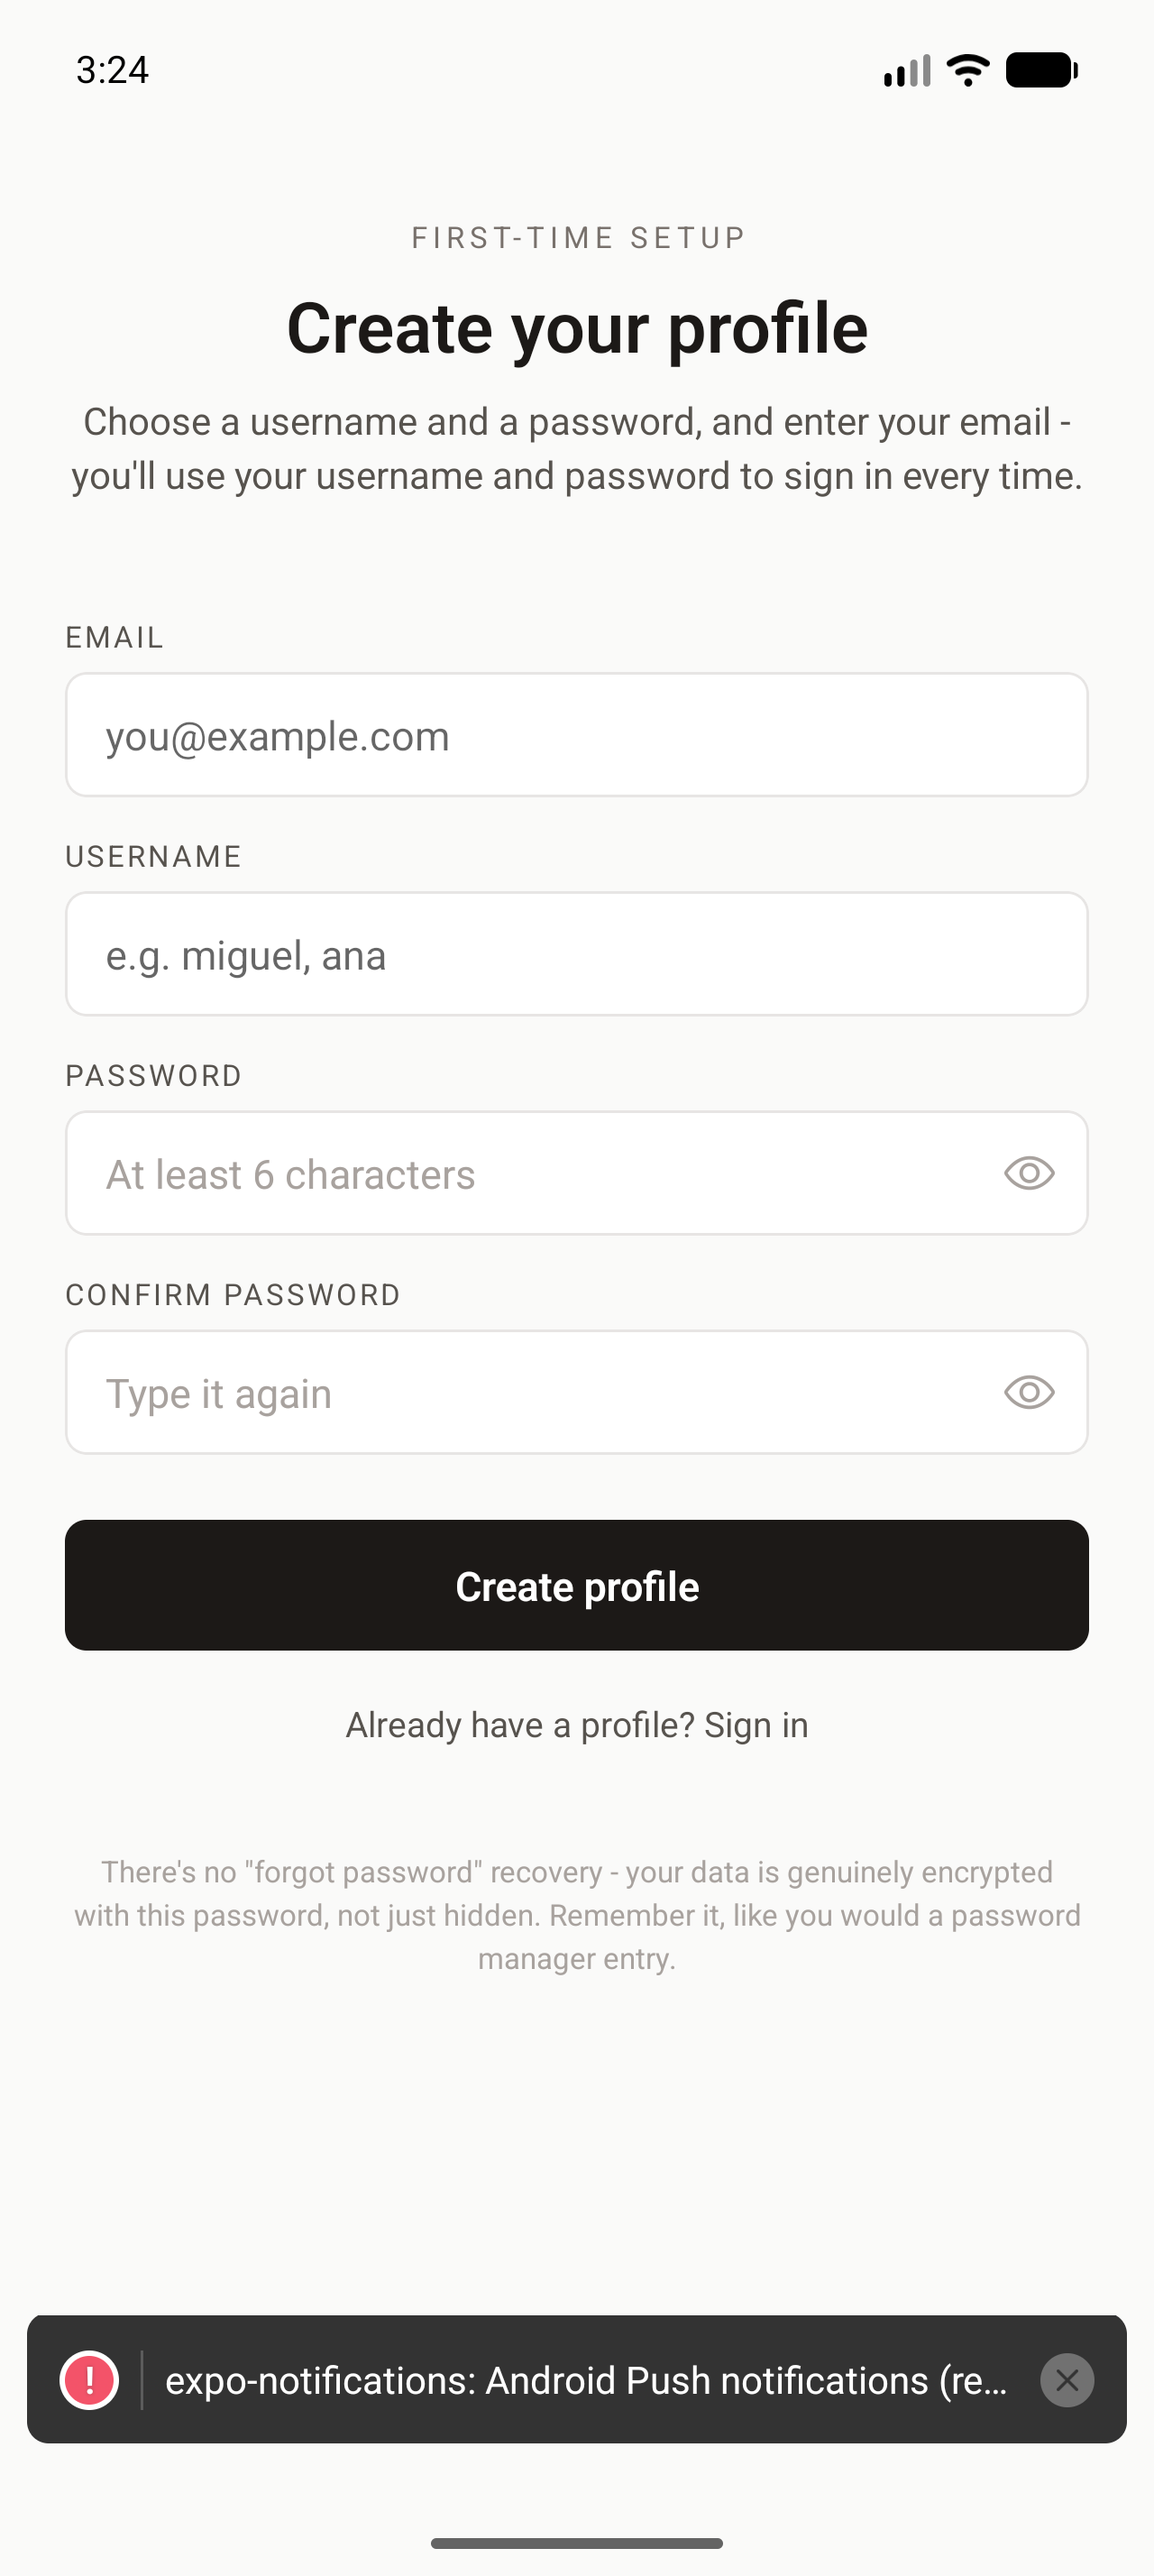
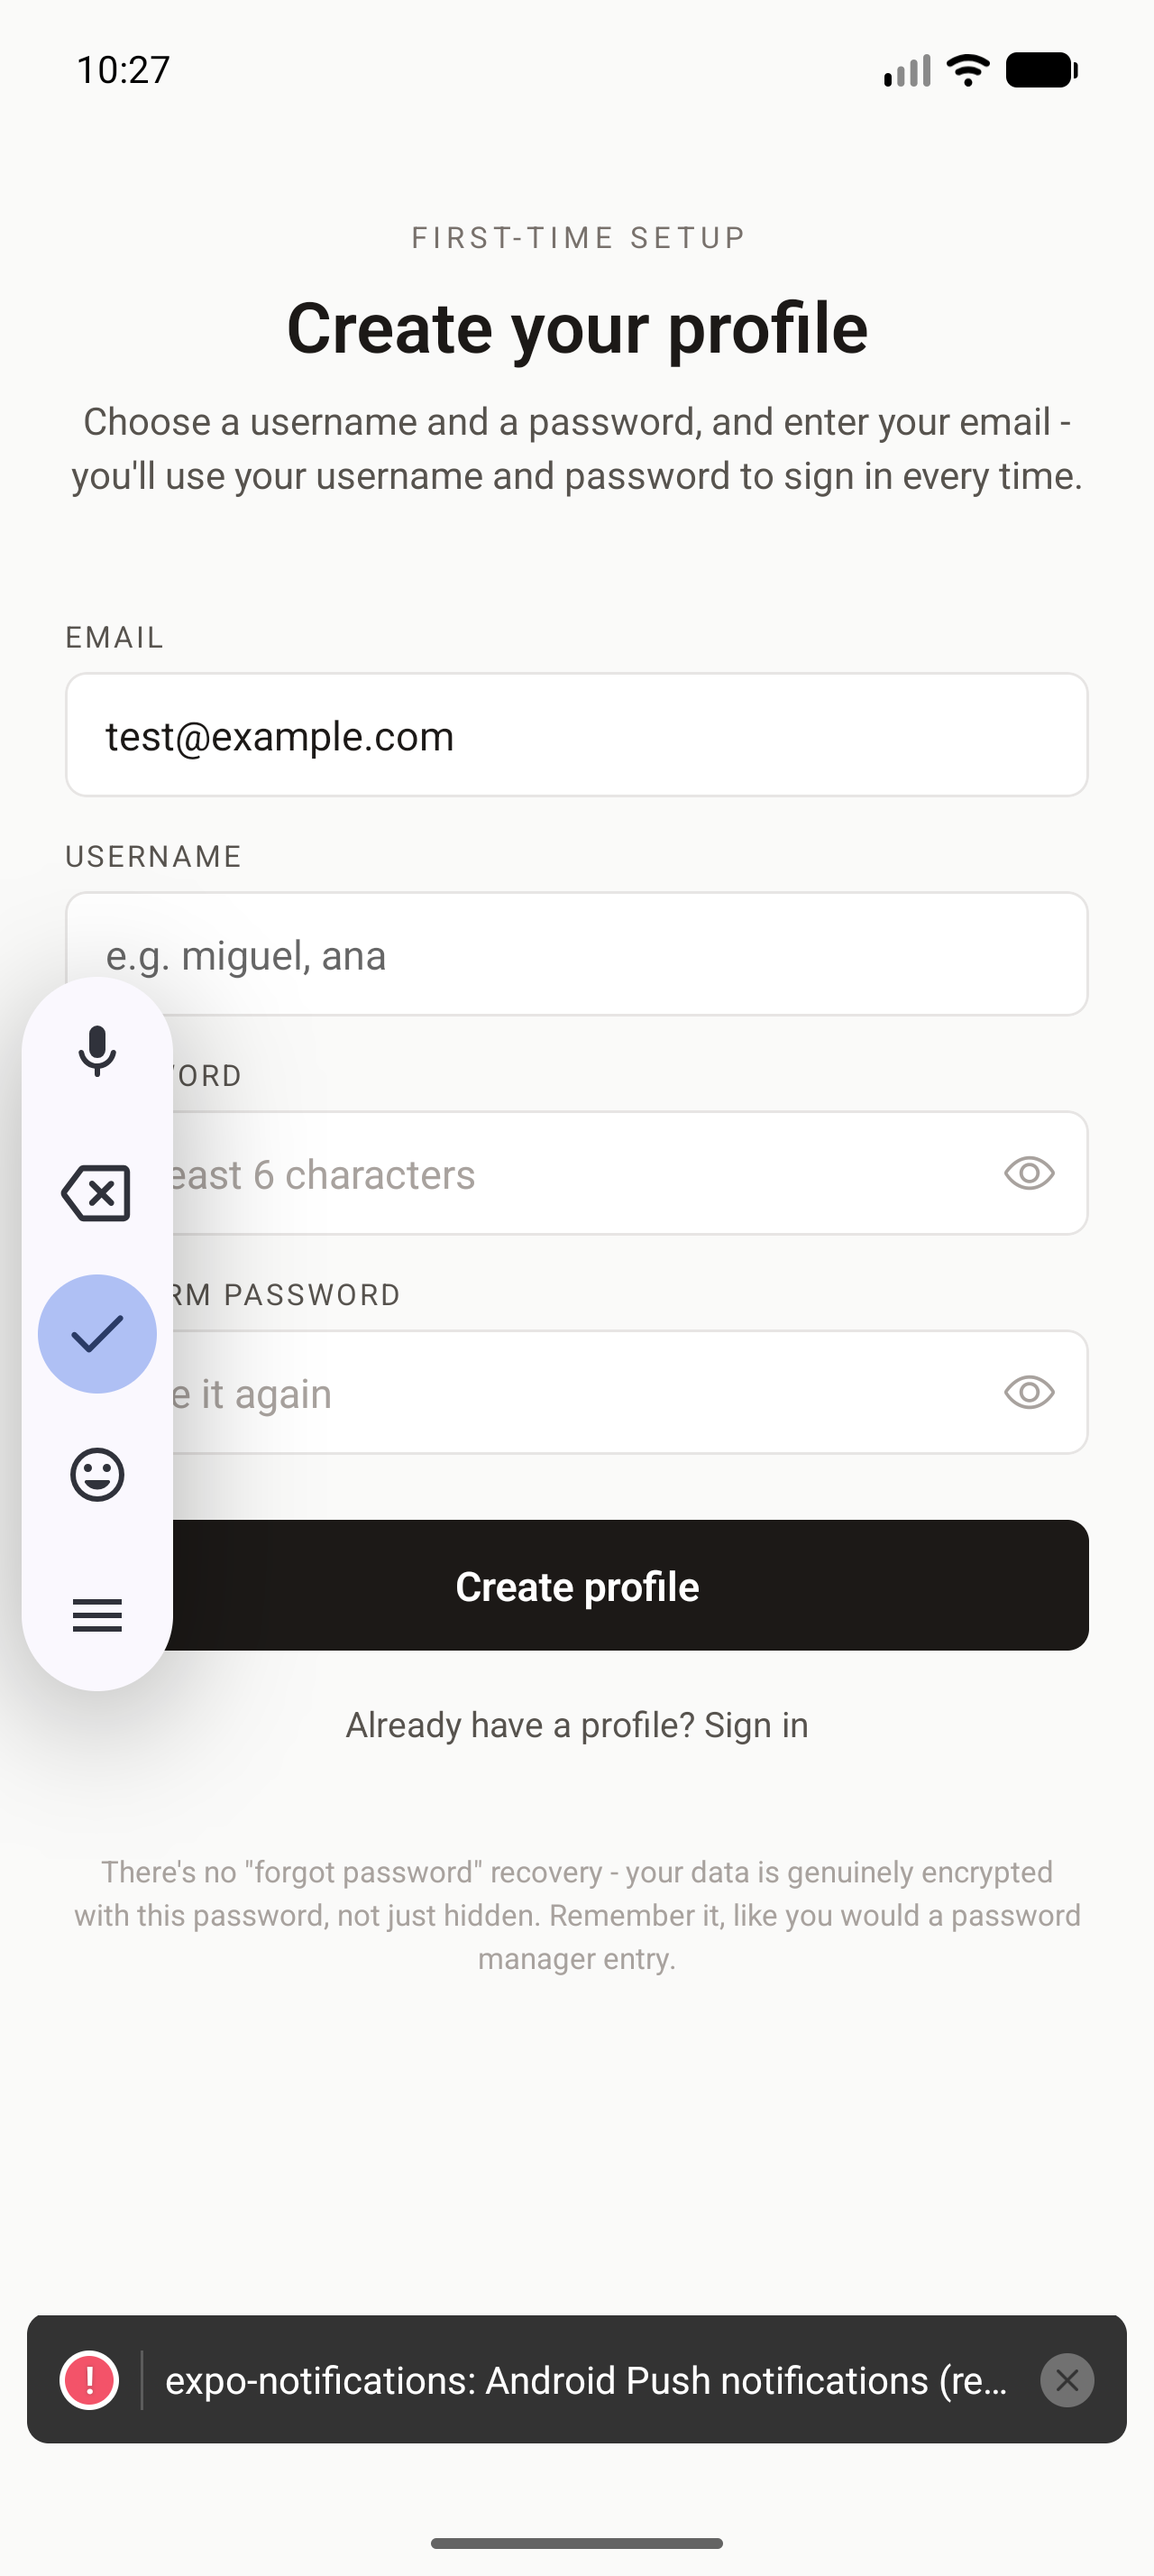
A.7.9: create-profile Maestro flow passes end-to-end; found account-creation bug on emulator; added full testing checklist

Changed region(s): [[0.0, 0.3739, 0.1875, 0.6856], [0.0938, 0.2805, 0.4062, 0.3116], [0.0625, 0.0, 0.125, 0.0312]]

diff --git a/mobile-app/EMULATOR-TESTING-CHECKLIST.md b/mobile-app/EMULATOR-TESTING-CHECKLIST.md
@@ -1,0 +1,248 @@
+# Emulator Testing Checklist — Household Finance App
+
+Test everything below on the Android Studio emulator BEFORE moving to a real device.
+Check off each item as it's confirmed working. Anything broken, note it under
+"Issues found" at the bottom with a short description.
+
+## 0. ⚠ Known blocking issue (fix before anything else can be tested)
+- [ ] Account creation fails on the emulator: "Something went wrong creating your
+      account. Check your internet connection and try again." — happens even
+      though the app successfully connected to the local Firebase emulator earlier.
+      Nothing past this point can be tested until this is fixed.
+
+## 1. Account creation & sign-in
+- [ ] Create profile: valid email + username + password + confirm password succeeds
+- [ ] Create profile: mismatched password/confirm shows an error, doesn't submit
+- [ ] Create profile: password under 6 characters is rejected with a clear message
+- [ ] Create profile: duplicate/already-used email is rejected with a clear message
+- [ ] Create profile: duplicate/already-used username is rejected with a clear message
+- [ ] Sign in: correct username + password succeeds
+- [ ] Sign in: wrong password shows a clear error, doesn't crash
+- [ ] Sign in: unknown username shows a clear error, doesn't crash
+- [ ] Eye icon (show/hide password) works on: sign-in, create-profile (both fields),
+      change-password (all fields)
+- [ ] Sign out works and returns to the sign-in screen
+
+## 2. PIN quick-unlock & auto-lock
+- [ ] Can set up a PIN from Settings > Security
+- [ ] App locks after backgrounding/minimizing, PIN screen shows on return
+- [ ] Correct PIN unlocks the app
+- [ ] Wrong PIN is rejected, doesn't unlock
+- [ ] Auto-lock timer options (1/5/15/30 min) are selectable
+- [ ] Changing the auto-lock timer takes effect without restarting the app
+- [ ] Can remove/disable the PIN
+
+## 3. Change passphrase
+- [ ] Changing passphrase with the correct current passphrase succeeds
+- [ ] Wrong current passphrase is rejected
+- [ ] New passphrase + confirm mismatch is rejected
+- [ ] After changing, sign out and sign back in with the NEW passphrase — succeeds
+- [ ] Old passphrase no longer works after the change
+
+## 4. Household linking
+- [ ] "Start linking" generates a code and shows it on screen
+- [ ] Code correctly expires after 15 minutes (or however it's currently configured)
+- [ ] "Start over" / regenerate code has a cooldown before it can be used again
+- [ ] Joining with a valid code works
+- [ ] Joining with an expired/invalid code shows a clear error
+- [ ] First-time link (2 people, no prior data): "Keep mine / Keep theirs / Merge"
+      choice appears and each option works correctly
+- [ ] Joining an existing household (3rd+ person): correct 2-choice dialog appears
+      ("Keep household data" / "Merge mine in") — NOT the 3-choice one
+- [ ] Linking completes automatically on both phones without a manual "finish" step
+- [ ] "X of 5 linked" member count badge shows and updates correctly
+- [ ] Household full (5 members) blocks a 6th person from joining, with a clear message
+- [ ] Member roster shows everyone's name, "You" label, and "Owner" label correctly
+- [ ] Owner can remove another member
+- [ ] Non-owner member can only remove themselves (unlink), not others
+- [ ] Owner leaving a 2+ person household shows a successor picker
+- [ ] Owner leaving a 2-person household skips the picker (goes straight to dissolve)
+- [ ] Last remaining member unlinking/leaving dissolves the household back to a
+      normal personal profile (not stuck, not an orphaned empty household)
+- [ ] Data really is shared correctly between two linked accounts (add something on
+      one device, confirm it shows up on the other)
+
+## 5. Home tab
+- [ ] Total balance / net worth hero stats display correctly
+- [ ] Quick-action buttons (Calendar / Transactions / To-Pay) navigate correctly
+- [ ] "Due soon" section shows upcoming bills/debts/loans correctly
+- [ ] "This month" income/expenses figures are correct
+- [ ] Recent activity list shows latest transactions and is tappable-free (info only)
+
+## 6. Calendar tab
+- [ ] Month grid shows correct days/events for the current month
+- [ ] Previous/next month navigation works
+- [ ] Swiping left/right on the calendar changes months (if on a touch device)
+- [ ] Tapping a day opens the day detail (agenda) view
+- [ ] Quick-add from a day works (bill/debt/loan)
+- [ ] Balance summary cards (Cash/Debit/Credit) show and can be expanded
+- [ ] Eye icon (show/hide balance) works
+- [ ] "Other assets" section (investments/property/vehicles) expands/collapses
+- [ ] "Balance as of" date picker works and updates the running projection
+- [ ] Quick Add (+) floating button opens the transaction form
+- [ ] Legend/color coding matches what's shown on the calendar
+
+## 7. Accounts tab
+- [ ] Add a Debit account — saves correctly
+- [ ] Add/edit the single Cash account — saves correctly
+- [ ] Add a Credit card — saves correctly, appears in Debts too
+- [ ] Withdraw cash from a debit account — balance updates correctly
+- [ ] Log cash directly — balance updates correctly
+- [ ] Transfer between two debit accounts — both balances update correctly
+- [ ] Scheduled/recurring transfers can be created and "Log now" works
+- [ ] Editing an account's starting balance updates the computed balance
+- [ ] Deleting an account works and removes it everywhere it was shown
+
+## 8. Transactions tab
+- [ ] Add a manual transaction (money out/in/savings) — appears in the list
+- [ ] Edit an existing manual transaction — changes save
+- [ ] Delete a manual transaction — removed from the list
+- [ ] Sort options (newest/oldest/highest/lowest amount) work
+- [ ] Filter by type, owner, month, tag all work
+- [ ] Date range filter works
+- [ ] Hide/unhide a derived transaction (bill/debt/etc.) works
+- [ ] "Delete completely" on a derived transaction actually reverses it at the source
+- [ ] Bulk select mode: select multiple, apply a tag, works
+- [ ] Bulk delete works and asks for confirmation first
+- [ ] CSV export downloads/produces a file
+- [ ] CSV import: file picker works, column mapping screen appears
+- [ ] CSV import: duplicate detection flags likely-duplicate rows correctly
+- [ ] CSV import: confirming import adds the transactions correctly
+- [ ] Templates: saving a transaction as a template works
+- [ ] Templates: one-tap re-use of a saved template works
+- [ ] Attachments: adding a photo/PDF to a transaction works
+- [ ] Attachments: viewing an attached photo/PDF works
+
+## 9. To-Pay: Bills
+- [ ] Add a new bill (all recurrence types: monthly/annual/one-time/custom) — saves
+- [ ] Edit an existing bill — changes save
+- [ ] Delete a bill — removed from the list
+- [ ] Logging a payment cycle (mark paid, partial payment) works
+- [ ] Payment method (cash/debit/credit) picker on a bill payment works
+- [ ] Sort and filter (category, owner, date range) work
+- [ ] Due-soon badge/highlighting shows correctly
+
+## 10. To-Pay: Debts
+- [ ] Add a new debt (all recurrence types, incl. one-time simplified paid toggle)
+- [ ] Edit/delete a debt works
+- [ ] Logging a payment cycle works
+- [ ] Manual-balance vs Auto-cycle mode both work correctly for monthly debts
+- [ ] "Pay minimum" / "Pay in full" quick actions work
+- [ ] Payoff Simulator: Snowball vs Avalanche both compute and display correctly
+- [ ] Consolidation What-If: selecting debts and entering new-loan terms computes
+      a correct before/after comparison
+
+## 11. To-Pay: Loans
+- [ ] Add a new loan (Borrowed and Lent directions both) — saves
+- [ ] Edit/delete a loan works
+- [ ] Logging an actual payment works, late-fee detection works correctly
+- [ ] Amortization preview computes and displays correctly
+- [ ] Custom recurrence works correctly (confirmed fixed this phase — retest anyway)
+
+## 12. Income
+- [ ] Add an income source (all frequency types) — saves
+- [ ] Edit/delete an income source works
+- [ ] Logging an actual payday (payment log) works
+- [ ] Destination account routing (which debit account payday goes to) works
+- [ ] Sort/filter (person, category, date range) work
+- [ ] Payday tolerance-window setting works as expected
+
+## 13. Savings
+- [ ] Add a savings goal — saves
+- [ ] Logging a contribution updates the goal's progress correctly
+- [ ] Emergency Fund calculator: auto-suggested figures appear, overrides work
+- [ ] FI Calculator: auto-suggested figures (including the new income baseline)
+      appear correctly, overrides work, projection computes correctly
+
+## 14. Insights: Dashboard
+- [ ] Every enabled widget renders without errors
+- [ ] "Customize" lets you show/hide and reorder widgets, and it saves
+- [ ] Category budgets: add one, spend tracking against it updates correctly
+- [ ] Envelope budgets: add one, rollover mode (reset vs carry) works correctly
+- [ ] Export (CSV / PDF / Both) works
+- [ ] Print preview opens and looks correct
+
+## 15. Insights: Reports
+- [ ] Weekly Digest: week navigation and figures are correct
+- [ ] Monthly Close-out: month navigation and figures are correct
+- [ ] Year in Review: year navigation and figures are correct
+- [ ] Financial Health snapshot: factors display sensible statuses
+- [ ] Tax Summary: year navigation, figures, and CSV export all work
+- [ ] Cash-Flow Forecast: 30/60/90-day toggle and chart work
+- [ ] Subscription Audit: sort toggle and price-change detection work
+- [ ] Merchant Spending: sort toggle and grouping work correctly
+- [ ] Person Spending: per-person breakdown is correct
+- [ ] Payment Methods: Cash/Debit/Credit breakdown is correct
+
+## 16. Planning: Groceries
+- [ ] Grocery List: add/edit/delete items, mark purchased, works
+- [ ] Sort by store & aisle works
+- [ ] Calculator: running tally add/remove works, "add all to list" works
+- [ ] Meal Ideas: add a meal, add ingredients, auto-budget from ingredients works
+- [ ] "Add ingredients to grocery list" from a meal idea works
+
+## 17. Planning: Travel
+- [ ] Add/edit/delete a trip works
+- [ ] Checklist items: add/edit/delete/check-off work
+- [ ] Sub-checklist items work
+- [ ] Budget auto-syncs from checklist costs correctly
+- [ ] "Auto-saving to Savings tab" toggle creates/updates a matching savings goal
+
+## 18. Planning: Events
+- [ ] Add/edit/delete an event works (Birthday/Anniversary/Other, all recurrences)
+- [ ] Checklist items work, each logs its own transaction when checked off with a cost
+- [ ] Marking an event completed logs the correct expense
+- [ ] Custom-recurring events correctly auto-complete once occurrences run out
+
+## 19. Planning: Year-End Goals
+- [ ] Add/edit/delete a goal works in both modes (track-progress / checklist)
+- [ ] Progress bar and percentage update correctly
+- [ ] Year banner summary is correct
+
+## 20. Planning: Shared Expenses
+- [ ] Add a shared expense, split evenly — saves and computes correctly
+- [ ] Add a shared expense, custom split — saves and computes correctly
+- [ ] Balances (who owes whom) computes correctly across multiple entries
+- [ ] Settle-up form works and correctly reduces the outstanding balance
+
+## 21. Settings
+- [ ] Profile & Personalization: vault name, currency, theme, color mode, font
+      size/family, bold/italic all save and apply immediately
+- [ ] Exchange rates: entering a rate for a foreign-currency account works
+- [ ] Money color overrides work
+- [ ] Notifications: alert-window days setting saves; browser push toggle works
+- [ ] Layout & Navigation: switching between Bottom Nav / Top Menu / Sidebar /
+      Scrollable Tabs all work correctly
+- [ ] Swipe-to-delete toggle works
+- [ ] Calendar balance-line visibility toggles work
+- [ ] Categories: add/edit/delete/recolor a category works; parent/subcategory works
+- [ ] Merchants & Payees: add/edit/delete works; default category works
+- [ ] Categorization Rules: add/edit/delete/reorder works; auto-fill on a new
+      transaction actually applies correctly
+- [ ] Envelope Budgeting: add/edit/delete an envelope works; spend tracking and
+      rollover both compute correctly
+- [ ] Security: change passphrase (see section 3), PIN setup (see section 2)
+- [ ] Household & Data: opens the backup/link panel correctly (see section 4 for
+      linking-specific items)
+- [ ] Backup: "Copy backup" and "Download .json" both work
+- [ ] Restore: pasting valid backup JSON and confirming replaces data correctly
+- [ ] Restore: invalid/garbled JSON shows a clear error, doesn't crash
+- [ ] Clear all data: confirmation dialog appears, clearing actually empties
+      everything but keeps the same username/passphrase
+- [ ] Help & FAQ: all questions expand/collapse correctly
+- [ ] Desktop/Mobile capability toggle switches content correctly
+
+## 22. App-wide / cross-cutting
+- [ ] Dark mode / light mode / device-follows-system all work correctly
+- [ ] Every named theme applies correctly across every screen
+- [ ] Currency symbol updates everywhere after changing currency
+- [ ] Global search finds results across Bills/Debts/Loans/Events/Transactions
+- [ ] Notification bell badge count matches what's actually due
+- [ ] No crashes when rapidly switching between tabs
+- [ ] App correctly returns to where you were after backgrounding and returning
+      (without a PIN lock triggering, if within the auto-lock window)
+
+## Issues found (fill in as you go)
+- [ ] Issue:
+      Screen/section:
+      Steps to reproduce:
